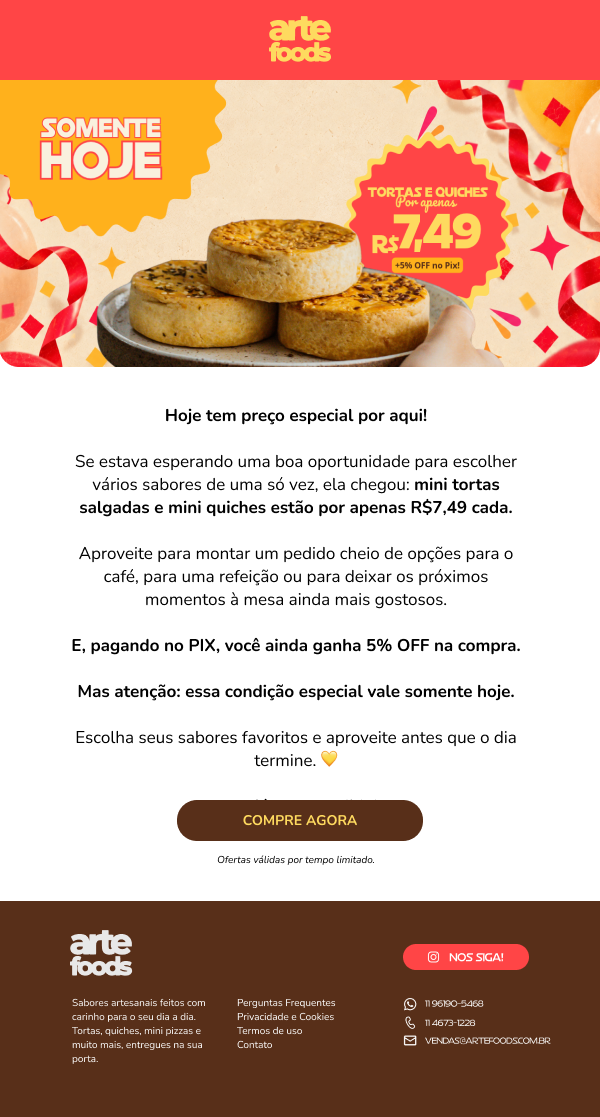
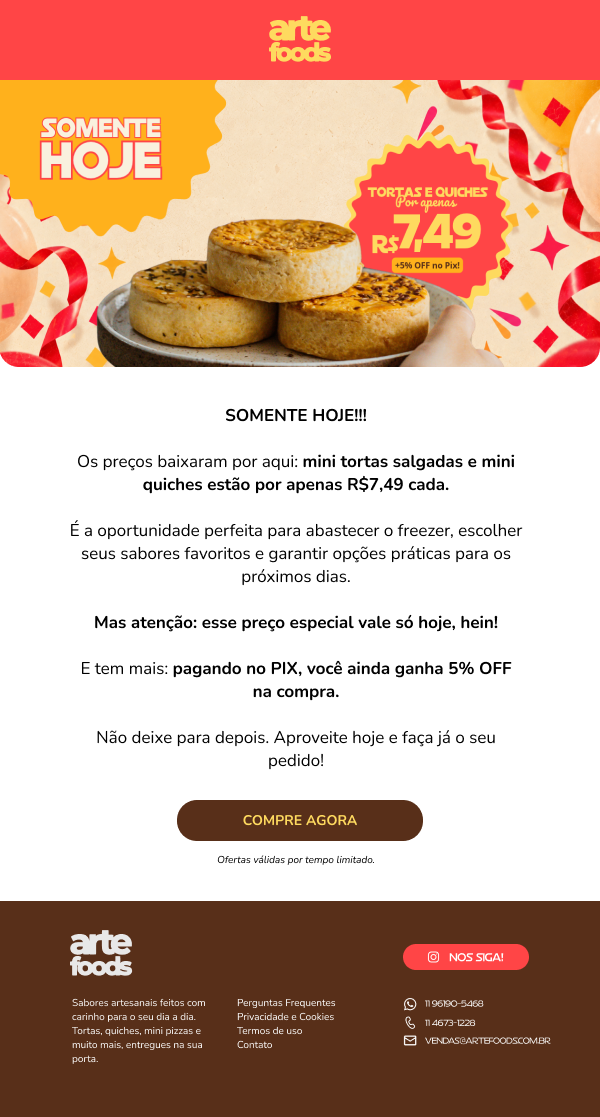
Correct Arte aniversario 2210 email

Changed region(s): [[0.12, 0.3653, 0.87, 0.7001]]

diff --git a/aniversario-2210/index.html b/aniversario-2210/index.html
@@ -28,12 +28,12 @@
           </a>
         </td></tr>
         <tr><td class="content" align="center" style="padding:34px 76px 16px;background:#ffffff;color:#111111;">
-          <p class="body-copy" style="margin:0 0 26px;font-family:Arial,Helvetica,sans-serif;font-size:18px;font-weight:700;line-height:1.35;text-align:center;">Hoje tem preço especial por aqui!</p>
-          <p class="body-copy" style="margin:0 0 26px;font-family:Arial,Helvetica,sans-serif;font-size:18px;font-weight:400;line-height:1.35;text-align:center;">Se estava esperando uma boa oportunidade para escolher vários sabores de uma só vez, ela chegou: <strong style="font-weight:700;">mini tortas salgadas e mini quiches estão por apenas R$7,49 cada.</strong></p>
-          <p class="body-copy" style="margin:0 0 26px;font-family:Arial,Helvetica,sans-serif;font-size:18px;font-weight:400;line-height:1.35;text-align:center;">Aproveite para montar um pedido cheio de opções para o café, para uma refeição ou para deixar os próximos momentos à mesa ainda mais gostosos.</p>
-          <p class="body-copy" style="margin:0 0 26px;font-family:Arial,Helvetica,sans-serif;font-size:18px;font-weight:700;line-height:1.35;text-align:center;">E, pagando no PIX, você ainda ganha 5% OFF na compra.</p>
-          <p class="body-copy" style="margin:0 0 26px;font-family:Arial,Helvetica,sans-serif;font-size:18px;font-weight:700;line-height:1.35;text-align:center;">Mas atenção: essa condição especial vale somente hoje.</p>
-          <p class="body-copy" style="margin:0 0 30px;font-family:Arial,Helvetica,sans-serif;font-size:18px;font-weight:400;line-height:1.35;text-align:center;">Escolha seus sabores favoritos e aproveite antes que o dia termine. 💛</p>
+          <p class="body-copy" style="margin:0 0 26px;font-family:Arial,Helvetica,sans-serif;font-size:18px;font-weight:700;line-height:1.35;text-align:center;">SOMENTE HOJE!!!</p>
+          <p class="body-copy" style="margin:0 0 26px;font-family:Arial,Helvetica,sans-serif;font-size:18px;font-weight:400;line-height:1.35;text-align:center;">Os preços baixaram por aqui: <strong style="font-weight:700;">mini tortas salgadas e mini quiches estão por apenas R$7,49 cada.</strong></p>
+          <p class="body-copy" style="margin:0 0 26px;font-family:Arial,Helvetica,sans-serif;font-size:18px;font-weight:400;line-height:1.35;text-align:center;">É a oportunidade perfeita para abastecer o freezer, escolher seus sabores favoritos e garantir opções práticas para os próximos dias.</p>
+          <p class="body-copy" style="margin:0 0 26px;font-family:Arial,Helvetica,sans-serif;font-size:18px;font-weight:700;line-height:1.35;text-align:center;">Mas atenção: esse preço especial vale só hoje, hein!</p>
+          <p class="body-copy" style="margin:0 0 26px;font-family:Arial,Helvetica,sans-serif;font-size:18px;font-weight:400;line-height:1.35;text-align:center;">E tem mais: <strong style="font-weight:700;">pagando no PIX, você ainda ganha 5% OFF na compra.</strong></p>
+          <p class="body-copy" style="margin:0 0 30px;font-family:Arial,Helvetica,sans-serif;font-size:18px;font-weight:400;line-height:1.35;text-align:center;">Não deixe para depois. Aproveite hoje e faça já o seu pedido!</p>
           <table role="presentation" cellpadding="0" cellspacing="0" border="0" style="border-collapse:collapse;margin:0 auto;">
             <tr><td align="center" bgcolor="#653018" style="background:#653018;border-radius:100px;">
               <a href="https://artefoods.com.br/aniversario?utm_source=email&amp;utm_medium=email&amp;utm_campaign=mes_de_aniversario&amp;utm_content=2210" target="_blank" style="display:inline-block;padding:14px 66px;color:#FFDC5A;font-family:Arial,Helvetica,sans-serif;font-size:15px;font-weight:800;line-height:1.2;text-align:center;text-decoration:none;text-transform:uppercase;">Compre agora</a>
